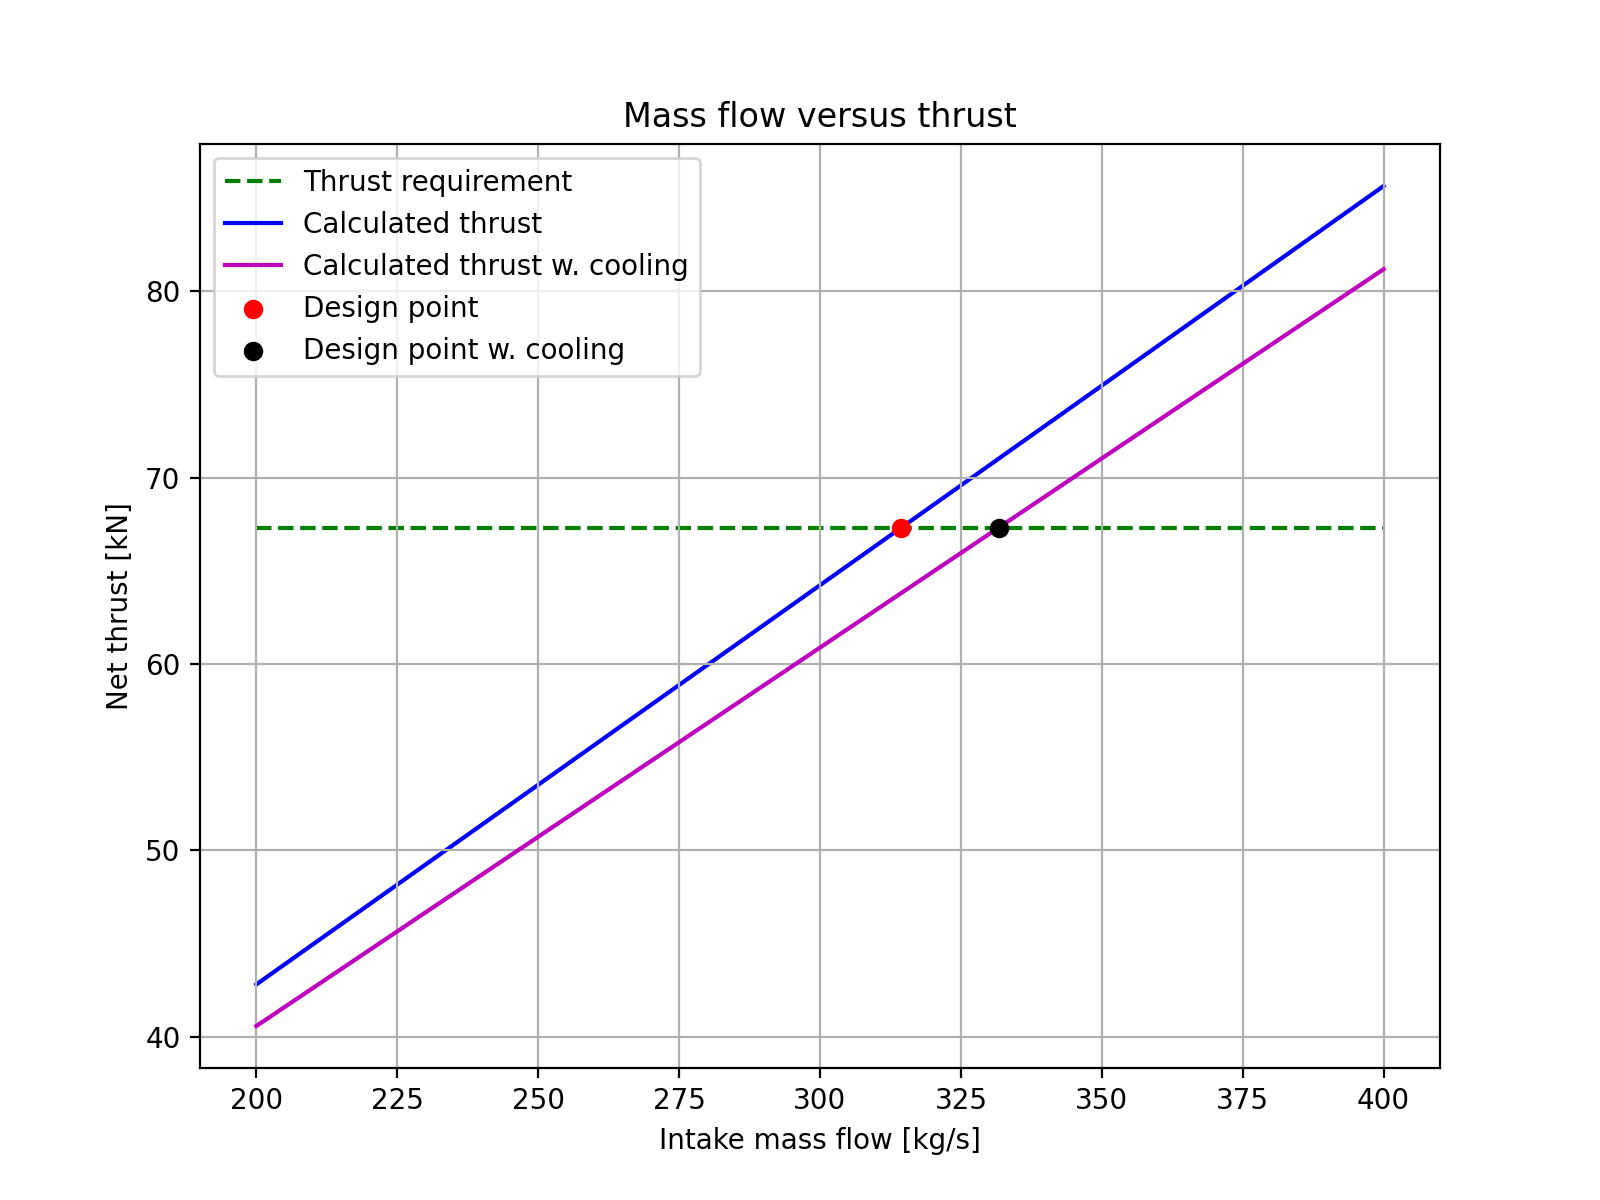
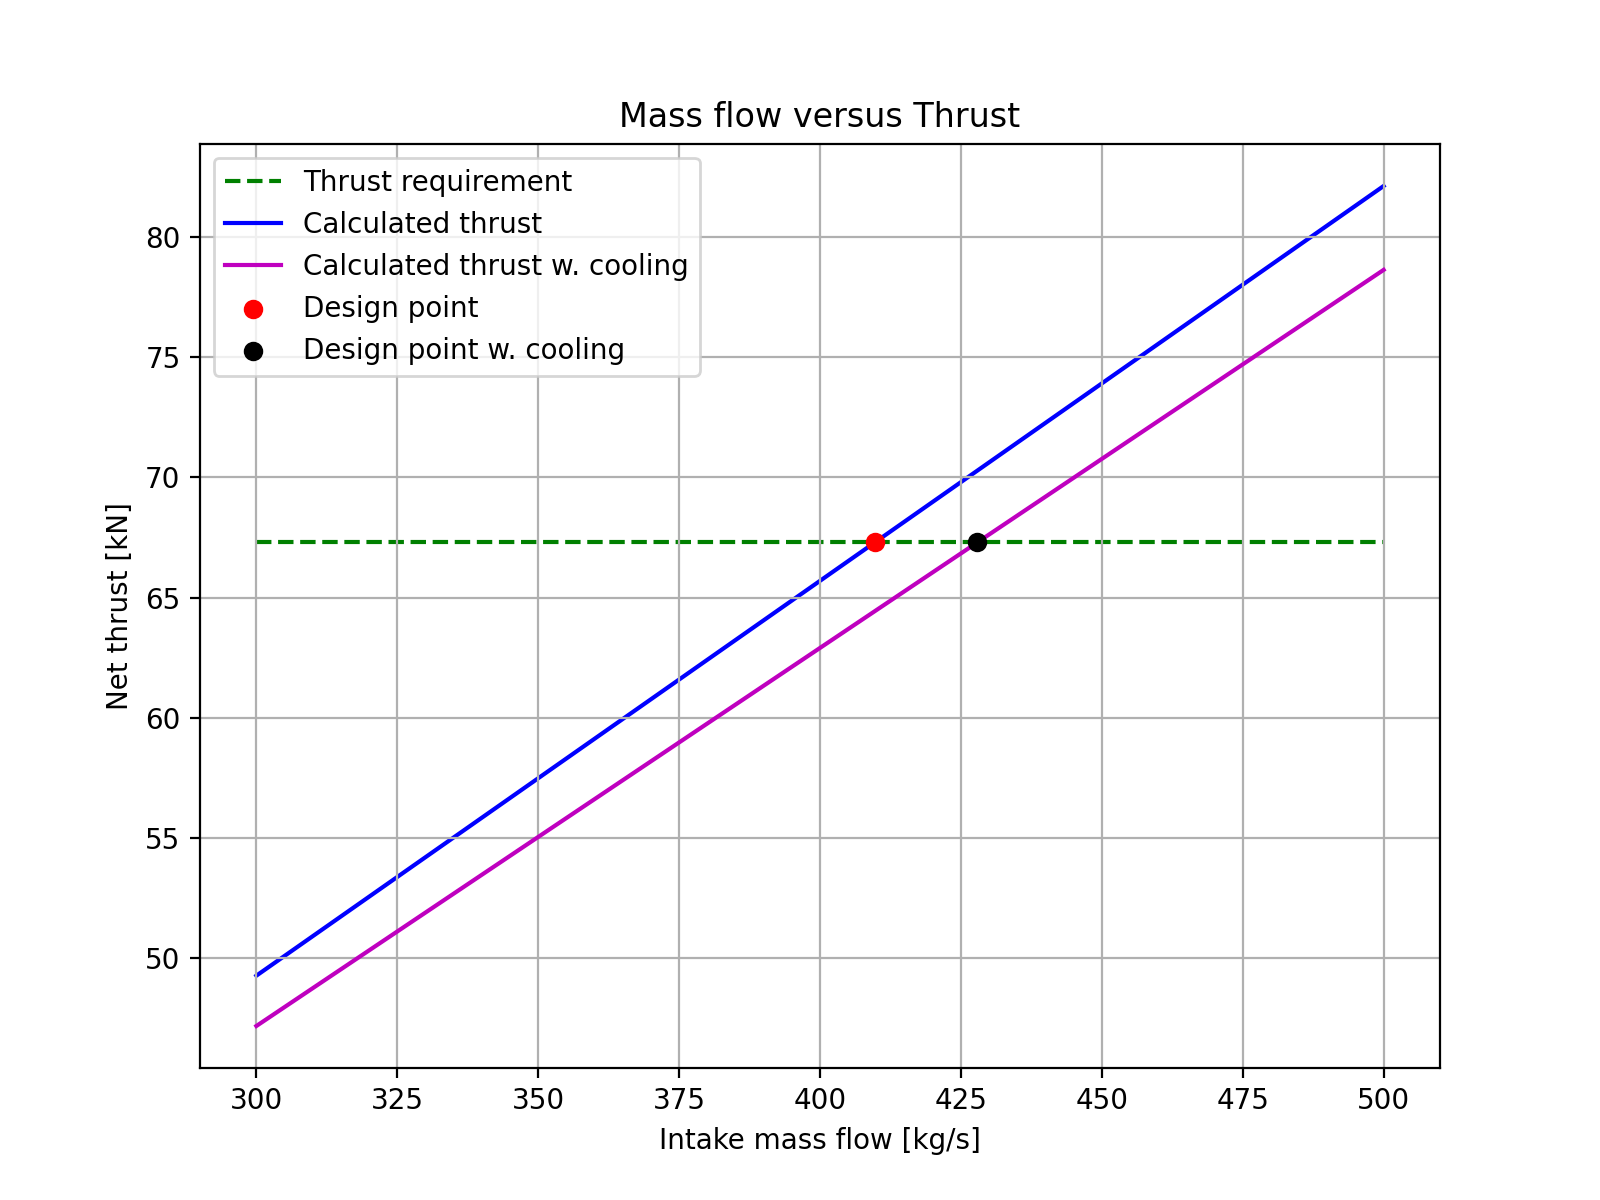
Changed split to always specified and fixed combustor pressure loss bug

diff --git a/DT1.py b/DT1.py
@@ -12,18 +12,18 @@ FPR = 1.55  # Fan pressure ratio
 OPR = 47  # Overall pressure ratio
 HPC_pressure_ratio = 4.5
 Turbine_inlet_temperature = 1680  # K
-Intake_efficiency = 0.995  # %
-Fan_polytropic_efficiency = 0.92  # %
-Combustor_efficiency = 0.99  # %
-Combustor_pressure_loss = 0.035  # %
-HPT_polytropic_efficiency = 0.905  # %
-IPT_polytropic_efficiency = 0.91  # %
-LPT_polytropic_efficiency = 0.915  # %
-Cold_Jet_efficiency = 0.98  # %
-Hot_jet_efficiency = 0.99  # %
-Shaft_mechanical_efficiency = 0.995  # %
-IPC_polytropic_efficiency = 0.91  # %
-HPC_polytropic_efficiency = 0.915  # %
+Intake_efficiency = 0.995  #
+Fan_polytropic_efficiency = 0.92  #
+Combustor_efficiency = 0.99  #
+Combustor_pressure_loss = 0.035  #
+HPT_polytropic_efficiency = 0.905  #
+IPT_polytropic_efficiency = 0.91  #
+LPT_polytropic_efficiency = 0.915  #
+Cold_Jet_efficiency = 0.98  #
+Hot_jet_efficiency = 0.99  #
+Shaft_mechanical_efficiency = 0.995  #
+IPC_polytropic_efficiency = 0.91  #
+HPC_polytropic_efficiency = 0.915  #
 
 # Thermodynamic ambient properties at design altitude
 sourceAlt = [10000, 11000]  # m https://www.engineeringtoolbox.com/elevation-speed-sound-air-d_1534.html
@@ -50,7 +50,11 @@ C_a = Flight_Mach_number * Speed_of_sound_1  # m/s
 IPC_pressure_ratio = OPR / (FPR * HPC_pressure_ratio)
 
 
-def massFlowToThrust(dmdt_0, hasCooling, hasPrinting):
+def massFlowToThrust(dmdt_0, coolingFraction=0.0, coolSplitFrac=0.0, hasPrinting=False):
+    assert(1 > coolingFraction >= 0)
+    assert(1 > coolSplitFrac >= 0)
+    hasCooling = coolingFraction > 0
+
     dmdt_hot = dmdt_0 / (BPR + 1)
     dmdt_cold = BPR * dmdt_hot
 
@@ -79,31 +83,22 @@ def massFlowToThrust(dmdt_0, hasCooling, hasPrinting):
     FAR_gamma = 8.889E-08 * (Turbine_inlet_temperature - 950)
     FAR = (FAR_alpha - np.sqrt(FAR_alpha ** 2 + FAR_beta) - FAR_gamma) / Combustor_efficiency
 
-    if hasCooling:
-        dmdt_CC = 0.8*dmdt_hot
-        dmdt_cool_s = 0.6*0.2*dmdt_hot
-        dmdt_cool_r = 0.4*0.2*dmdt_hot
-        dmdt_f = FAR * dmdt_CC
-        dmdt_g_1 = dmdt_f + dmdt_CC
+    dmdt_CC = (1 - coolingFraction) * dmdt_hot
+    dmdt_cool = coolingFraction * dmdt_hot
+    dmdt_cool_s = (1 - coolSplitFrac) * dmdt_cool
+    dmdt_cool_r = coolSplitFrac * dmdt_cool
+    dmdt_f = FAR * dmdt_CC
+    dmdt_g_1 = dmdt_f + dmdt_CC
 
-        T0_5 = Turbine_inlet_temperature
-        p0_5 = p0_4 * Combustor_pressure_loss
+    T0_5 = Turbine_inlet_temperature
+    p0_5 = p0_4 * (1 - Combustor_pressure_loss)
 
-        dmdt_g_2 = dmdt_g_1 + dmdt_cool_s
-        T0_5_2 = (dmdt_CC * cp_g * T0_5 + dmdt_cool_s * cp_a * T0_4) / (cp_g * dmdt_g_2)
+    dmdt_g_2 = dmdt_g_1 + dmdt_cool_s
+    T0_5_2 = (dmdt_CC * cp_g * T0_5 + dmdt_cool_s * cp_a * T0_4) / (cp_g * dmdt_g_2)
 
-        T0_6 = T0_5_2 - dWdt_HPC / (dmdt_g_2 * cp_g * Shaft_mechanical_efficiency)
-        p0_6 = p0_5 * (T0_6 / T0_5) ** (gamma_g / ((gamma_g - 1) * HPT_polytropic_efficiency))
-        dmdt_g = dmdt_g_2+dmdt_cool_r
-    else:
-        dmdt_f = FAR * dmdt_hot
-        dmdt_g = dmdt_f + dmdt_hot
-
-        T0_5 = Turbine_inlet_temperature
-        p0_5 = p0_4 * Combustor_pressure_loss
-
-        T0_6 = T0_5 - dWdt_HPC / (dmdt_g * cp_g * Shaft_mechanical_efficiency)
-        p0_6 = p0_5 * (T0_6 / T0_5) ** (gamma_g / ((gamma_g - 1) * HPT_polytropic_efficiency))
+    T0_6 = T0_5_2 - dWdt_HPC / (dmdt_g_2 * cp_g * Shaft_mechanical_efficiency)
+    p0_6 = p0_5 * (T0_6 / T0_5_2) ** (gamma_g / ((gamma_g - 1) * HPT_polytropic_efficiency))
+    dmdt_g = dmdt_g_2 + dmdt_cool_r
 
     T0_7 = T0_6 - dWdt_IPC / (dmdt_g * cp_g * Shaft_mechanical_efficiency)
     p0_7 = p0_6 * (T0_7 / T0_6) ** (gamma_g / ((gamma_g - 1) * IPT_polytropic_efficiency))
@@ -117,11 +112,6 @@ def massFlowToThrust(dmdt_0, hasCooling, hasPrinting):
 
     hotIsChoked = (p0_8 / p_1) > CPR_hot
     coldIsChoked = (p0_2 / p_1) > CPR_cold
-    # print(hotIsChoked)
-    # print(coldIsChoked)
-    if hotIsChoked and not coldIsChoked:
-        print(hotIsChoked)
-        print(coldIsChoked)
 
     if hotIsChoked:  # p9=p9c critical pressure
         p_9 = p0_8 / CPR_hot
@@ -179,22 +169,23 @@ def massFlowToThrust(dmdt_0, hasCooling, hasPrinting):
         else:
             print('\n\n---Results without cooling flow---')
 
-        print('\n-Station thermodynamic properties-')
-        print(f'Station 1: P_01: {p0_1 * 1e-3:.3g} kPa, T_01: {T0_1:.3g} K, dmdt_01: {dmdt_0:.3g} kg/s.')
-        print(f'Station 2: P_02: {p0_2 * 1e-3:.3g} kPa, T_02: {T0_2:.3g} K, dmdt_02: {dmdt_hot:.3g} kg/s.')
-        print(f'Station 3: P_03: {p0_3 * 1e-3:.3g} kPa, T_03: {T0_3:.3g} K, dmdt_03: {dmdt_hot:.3g} kg/s.')
-        print(f'Station 4: P_04: {p0_4 * 1e-3:.3g} kPa, T_04: {T0_4:.3g} K, dmdt_04: {dmdt_hot:.3g} kg/s.')
+        print('\n--Station thermodynamic properties--')
+        print(f'Station 1: P_01: {p0_1 * 1e-3:.4g} kPa, T_01: {T0_1:.4g} K, dmdt_01: {dmdt_0:.3g} kg/s.')
+        print(f'Station 2: P_02: {p0_2 * 1e-3:.4g} kPa, T_02: {T0_2:.4g} K, dmdt_02: {dmdt_hot:.3g} kg/s.')
+        print(f'Station 3: P_03: {p0_3 * 1e-3:.4g} kPa, T_03: {T0_3:.4g} K, dmdt_03: {dmdt_hot:.3g} kg/s.')
+        print(f'Station 4: P_04: {p0_4 * 1e-3:.4g} kPa, T_04: {T0_4:.4g} K, dmdt_04: {dmdt_hot:.3g} kg/s.')
         if hasCooling:
-            print(f'Station 5: P_05: {p0_5 * 1e-3:.3g} kPa, T_05: {T0_5:.3g} K, dmdt_05: {dmdt_g_1:.3g} kg/s.')
-            print(f'Station 5.2: P_05.2: {p0_5 * 1e-3:.3g} kPa, T_05.2: {T0_5_2:.3g} K, dmdt_05: {dmdt_g_2:.3g} kg/s.')
+            print(f'Station 5.1: P_05.1: {p0_5 * 1e-3:.4g} kPa, T_05.1: {T0_5:.4g} K, dmdt_05.1: {dmdt_g_1:.3g} kg/s.')
+            print(f'Station 5.2: P_05.2: {p0_5 * 1e-3:.4g} kPa, T_05.2: {T0_5_2:.4g} K, dmdt_05.2: {dmdt_g_2:.3g} kg/s.')
         else:
-            print(f'Station 5: P_05: {p0_5 * 1e-3:.3g} kPa, T_05: {T0_5:.3g} K, dmdt_05: {dmdt_g:.3g} kg/s.')
-        print(f'Station 6: P_06: {p0_6 * 1e-3:.3g} kPa, T_06: {T0_6:.3g} K, dmdt_06: {dmdt_g:.3g} kg/s.')
-        print(f'Station 7: P_07: {p0_7 * 1e-3:.3g} kPa, T_07: {T0_7:.3g} K, dmdt_07: {dmdt_g:.3g} kg/s.')
-        print(f'Station 8: P_08: {p0_8 * 1e-3:.3g} kPa, T_08: {T0_8:.3g} K, dmdt_08: {dmdt_g:.3g} kg/s.')
+            print(f'Station 5: P_05: {p0_5 * 1e-3:.4g} kPa, T_05: {T0_5:.4g} K, dmdt_05: {dmdt_g:.3g} kg/s.')
+        print(f'Station 6: P_06: {p0_6 * 1e-3:.4g} kPa, T_06: {T0_6:.4g} K, dmdt_06: {dmdt_g:.3g} kg/s.')
+        print(f'Station 7: P_07: {p0_7 * 1e-3:.4g} kPa, T_07: {T0_7:.4g} K, dmdt_07: {dmdt_g:.3g} kg/s.')
+        print(f'Station 8: P_08: {p0_8 * 1e-3:.4g} kPa, T_08: {T0_8:.4g} K, dmdt_08: {dmdt_g:.3g} kg/s.')
 
-        print('\n-Overall performance-')
-        print(f'Intake mass flow: {final_dmdt:.3g} kg/s.')
+        print('\n--Overall performance--')
+        print(f'Thrust: {Net_thrust * 1e-3:.3g} kN.')
+        print(f'Intake mass flow: {dmdt_0:.3g} kg/s.')
         print(f'SFC: {SFC * 1e6:.3g} mg/Ns.')
         print(f'Hot channel is {"choked" if hotIsChoked else "not choked"}.')
         print(f'Cold channel is {"choked" if coldIsChoked else "not choked"}.')
@@ -208,13 +199,13 @@ def massFlowToThrust(dmdt_0, hasCooling, hasPrinting):
 
 
 # Assemble mass flow data
-massFlows = np.linspace(200, 400, 1000)
+massFlows = np.linspace(300, 500, 1000)
 testTrust = []
 testTrustCool = []
 
 for dmdt in massFlows:
-    testTrust.append(massFlowToThrust(dmdt, False, False)[0])
-    testTrustCool.append(massFlowToThrust(dmdt, True, False)[0])
+    testTrust.append(massFlowToThrust(dmdt)[0])
+    testTrustCool.append(massFlowToThrust(dmdt, coolingFraction=0.2, coolSplitFrac=0.4)[0])
 testTrust = np.array(testTrust)
 testTrustCool = np.array(testTrustCool)
 
@@ -226,9 +217,8 @@ i_closest_c = np.argmin(np.abs(testTrustCool - Net_thrust))
 final_dmdt_c = np.interp(Net_thrust, testTrust[i_closest_c:i_closest_c+2], massFlows[i_closest_c:i_closest_c+2])
 
 # Print result from code
-print(f'\nThrust: {Net_thrust * 1e-3:.3g} kN.')
-massFlowToThrust(final_dmdt, False, True)
-massFlowToThrust(final_dmdt, True, True)
+massFlowToThrust(final_dmdt, hasPrinting=True)
+massFlowToThrust(final_dmdt_c, coolingFraction=0.2, coolSplitFrac=0.4, hasPrinting=True)
 
 # Plot mass flow to thrust
 fig = plt.figure()
@@ -238,7 +228,7 @@ plt.plot(massFlows, testTrust * 1e-3, label='Calculated thrust', color='b', zord
 plt.plot(massFlows, testTrustCool * 1e-3, label='Calculated thrust w. cooling', color='m', zorder=2)
 plt.scatter(final_dmdt, Net_thrust * 1e-3, c='r', marker='o', label='Design point', zorder=3)
 plt.scatter(final_dmdt_c, Net_thrust * 1e-3, c='k', marker='o', label='Design point w. cooling', zorder=4)
-plt.title('Mass flow versus thrust')
+plt.title('Mass flow versus Thrust')
 plt.xlabel('Intake mass flow [kg/s]')
 plt.ylabel('Net thrust [kN]')
 plt.grid()
